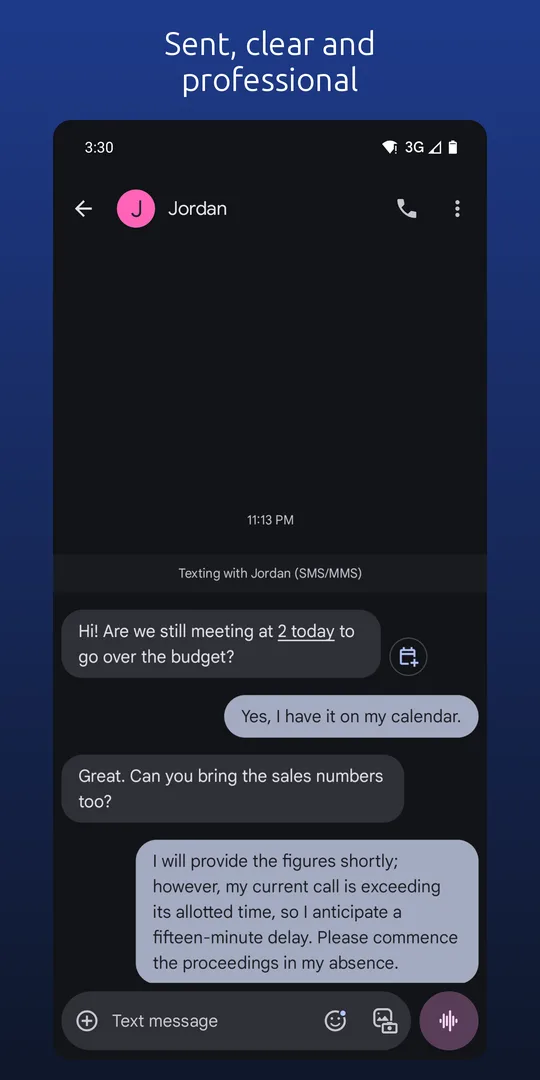
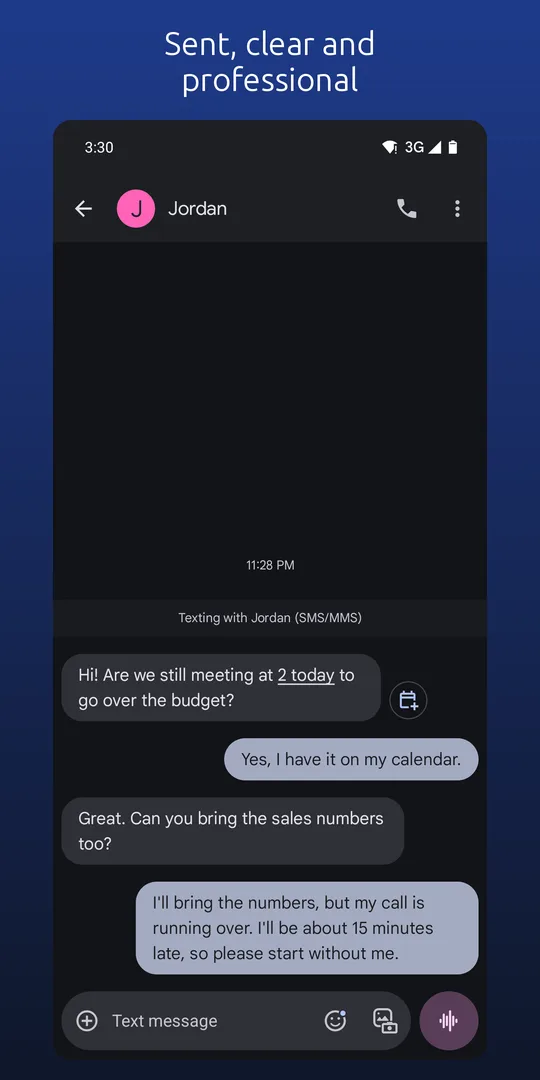
Meeting screenshots at the Everyday reading level

Changed region(s): [[0.0889, 0.5194, 0.8889, 0.9167], [0.4741, 0.4583, 0.5333, 0.4889]]

diff --git a/index.html b/index.html
@@ -76,7 +76,7 @@ box, with a few seconds to undo. Your keyboard stays where it is.</p>
 
 <h2>See it in action</h2>
 <ul class="gallery">
-  <li><a href="screens/01-professional.webp"><img src="screens/01-professional.webp" alt="A messy text about being late to a meeting, rewritten as Professional at the College reading level" width="540" height="1080" loading="lazy"></a></li>
+  <li><a href="screens/01-professional.webp"><img src="screens/01-professional.webp" alt="A messy text about being late to a meeting, rewritten as Professional at the Everyday reading level" width="540" height="1080" loading="lazy"></a></li>
   <li><a href="screens/02-prosent.webp"><img src="screens/02-prosent.webp" alt="The professional rewrite after it was sent" width="540" height="1080" loading="lazy"></a></li>
   <li><a href="screens/03-shakespeare.webp"><img src="screens/03-shakespeare.webp" alt="The same text rewritten as Shakespeare at the Max reading level" width="540" height="1080" loading="lazy"></a></li>
   <li><a href="screens/04-pirate.webp"><img src="screens/04-pirate.webp" alt="A messy text about a night out, rewritten as Pirate at the Max reading level" width="540" height="1080" loading="lazy"></a></li>
